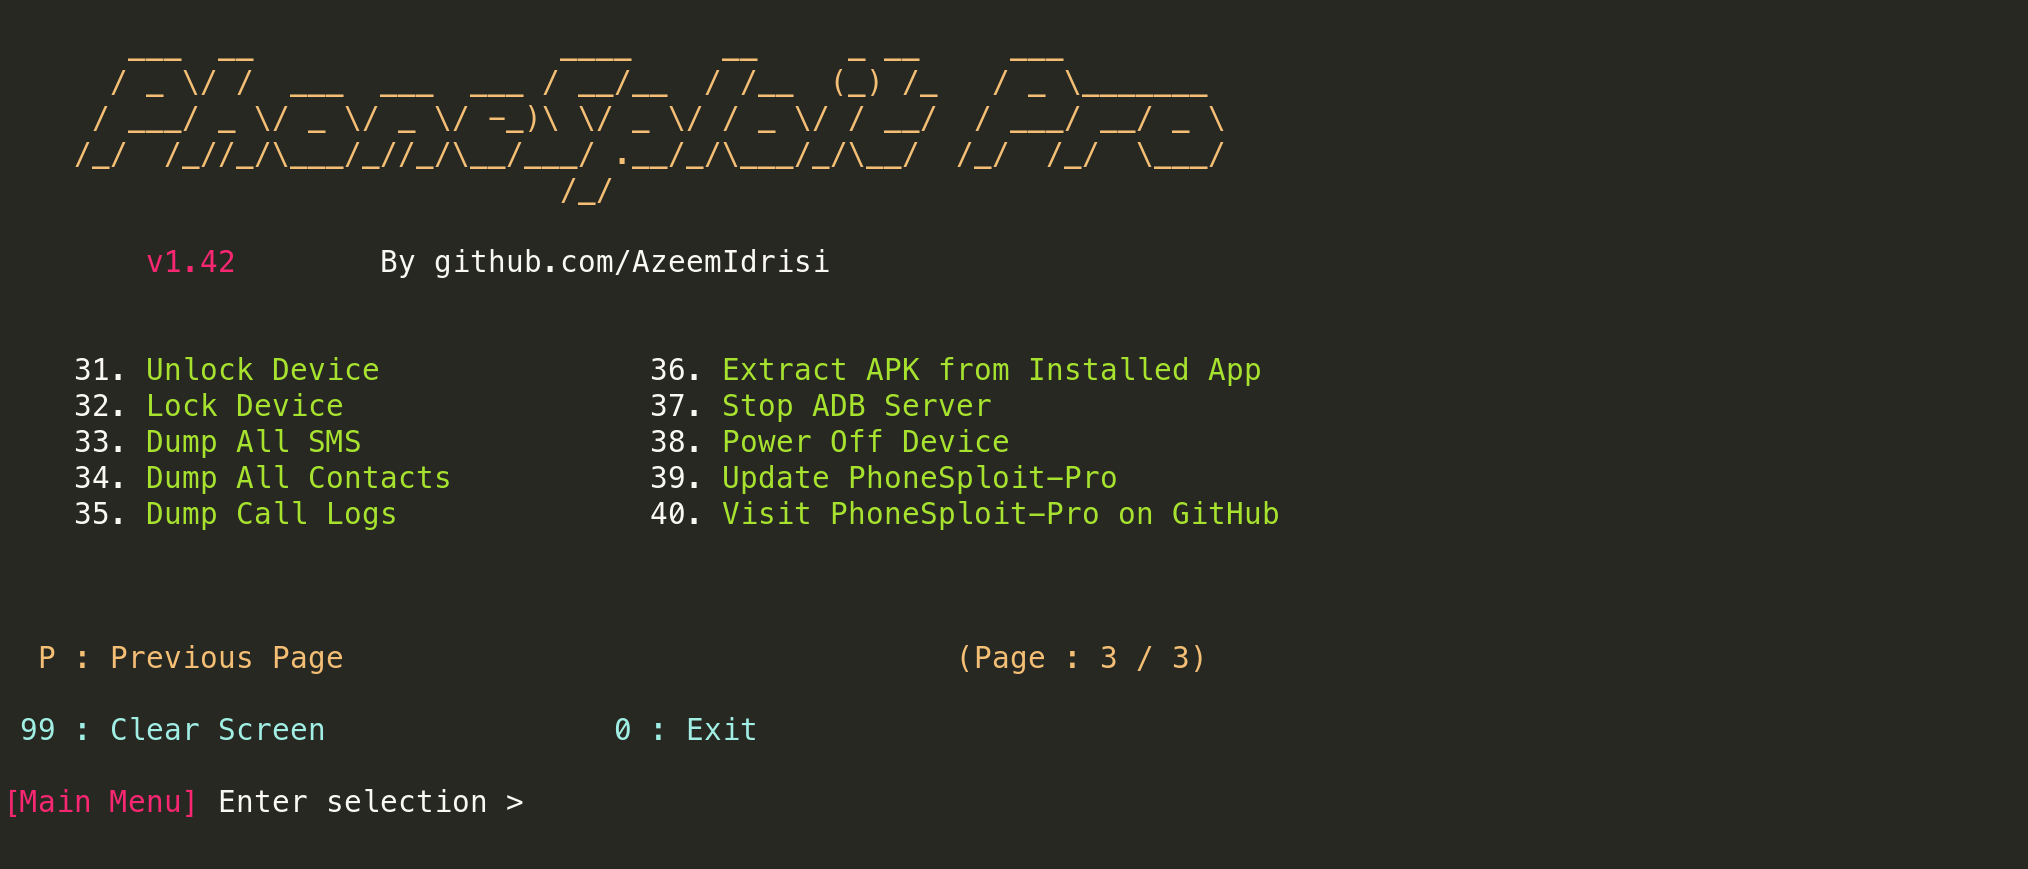
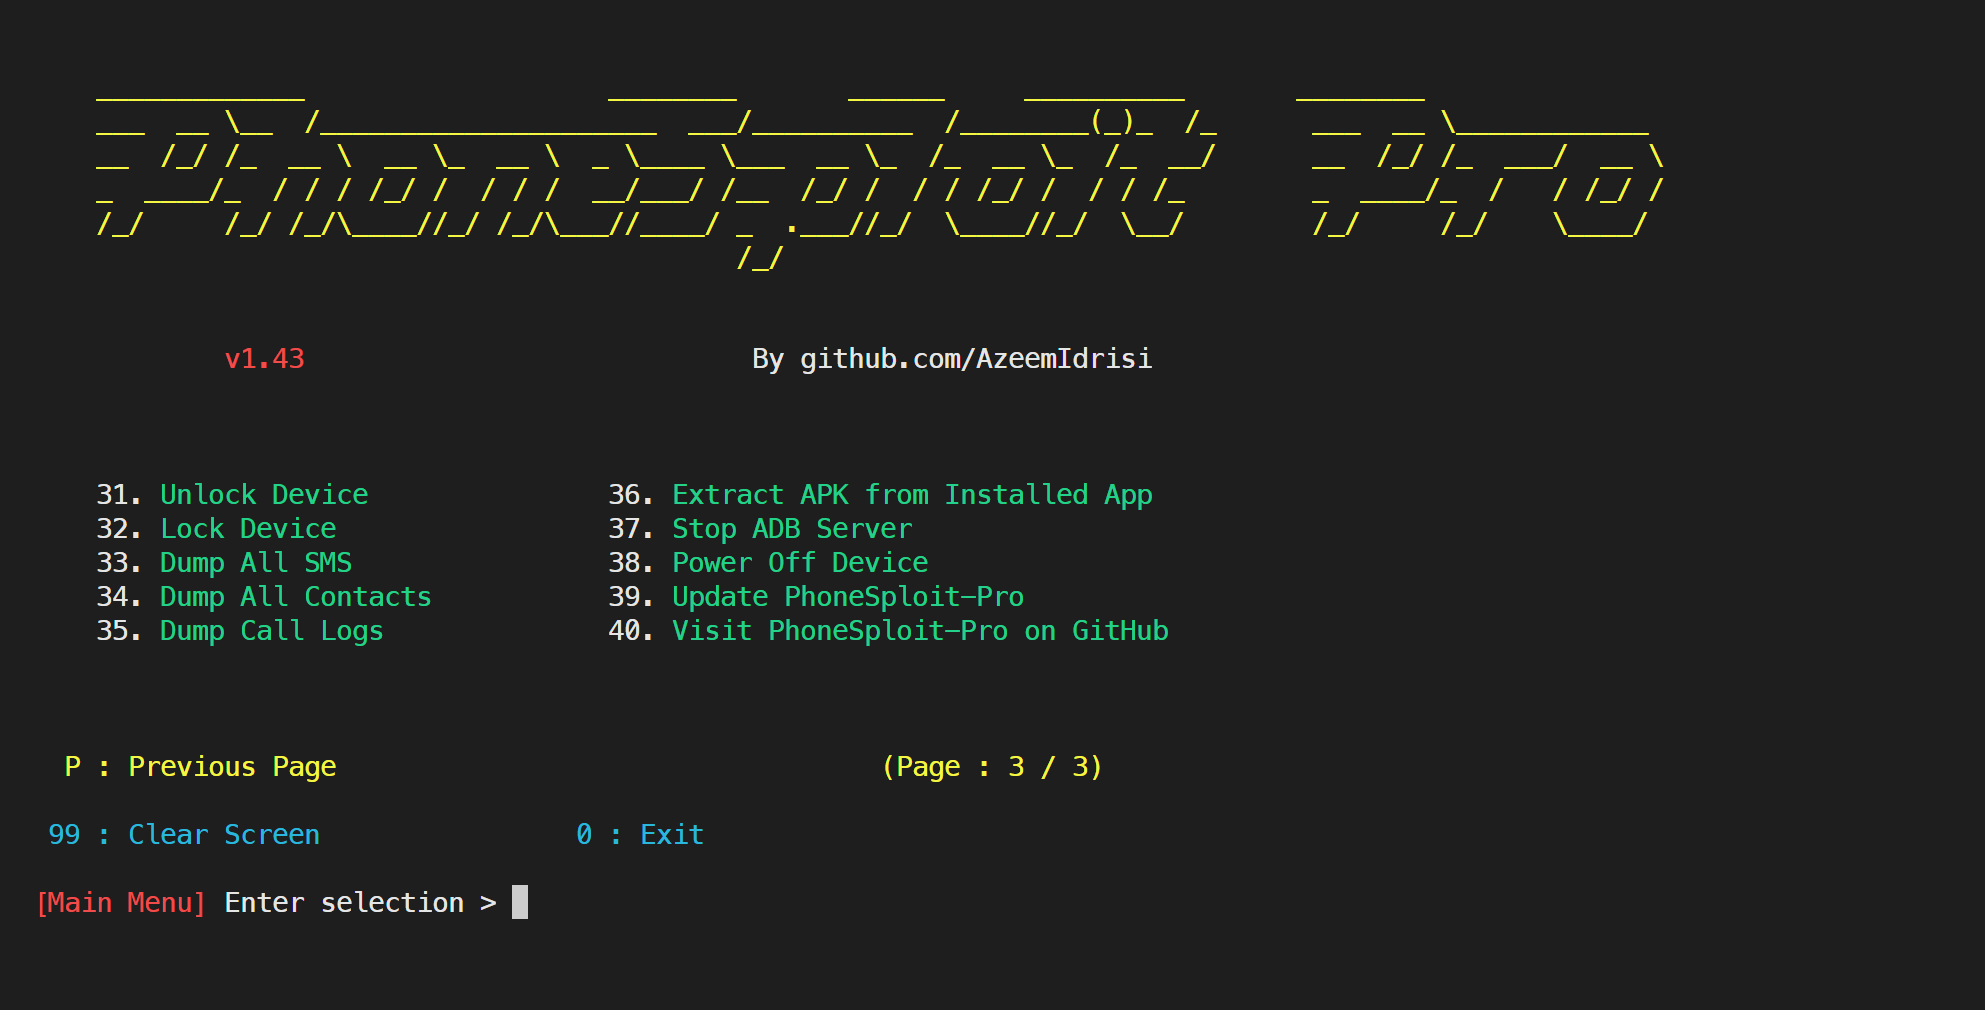
v1.43 Update

diff --git a/modules/banner.py b/modules/banner.py
@@ -72,7 +72,7 @@ banner2 = f'''
         ░█─── ▀──▀ ▀▀▀▀ ▀──▀ ▀▀▀ ░█▄▄▄█ █▀▀▀ ▀▀▀ ▀▀▀▀ ▀▀▀ ──▀── 　 ░█─── ▀─▀▀ ▀▀▀▀
 
 
-            {color.RED}v1.42{color.WHITE}            {color.WHITE}By github.com/AzeemIdrisi
+            {color.RED}v1.43{color.WHITE}            {color.WHITE}By github.com/AzeemIdrisi
 '''
 
 banner3 = f'''
@@ -81,7 +81,7 @@ banner3 = f'''
         █▀▀ █▀█ █▄█ █░▀█ ██▄ ▄█ █▀▀ █▄▄ █▄█ █ ░█░   █▀▀ █▀▄ █▄█ 
 
 
-            {color.RED}v1.42{color.WHITE}             {color.WHITE}By github.com/AzeemIdrisi
+            {color.RED}v1.43{color.WHITE}             {color.WHITE}By github.com/AzeemIdrisi
 '''
 
 banner4 = f'''
@@ -93,7 +93,7 @@ banner4 = f'''
                   \/            \/     \/        \/|__|                                                      
 
 
-        {color.RED}v1.42{color.WHITE}                             {color.WHITE}By github.com/AzeemIdrisi
+        {color.RED}v1.43{color.WHITE}                             {color.WHITE}By github.com/AzeemIdrisi
 '''
 banner5 = f'''
        ___  __                 ____     __     _ __     ___         
@@ -102,7 +102,7 @@ banner5 = f'''
     /_/  /_//_/\___/_//_/\__/___/ .__/_/\___/_/\__/  /_/  /_/  \___/
                                /_/                                                                                                      
 
-        {color.RED}v1.42{color.WHITE}        {color.WHITE}By github.com/AzeemIdrisi
+        {color.RED}v1.43{color.WHITE}        {color.WHITE}By github.com/AzeemIdrisi
 '''
 
 banner6 = f'''
@@ -113,7 +113,7 @@ banner6 = f'''
     /_/   /_/ /_/\____/_/ /_/\___/____/ .___/_/\____/_/\__/    /_/   /_/   \____/
                                      /_/                                                                                                       
     
-           {color.RED}v1.42{color.WHITE}               {color.WHITE}By github.com/AzeemIdrisi
+           {color.RED}v1.43{color.WHITE}               {color.WHITE}By github.com/AzeemIdrisi
 
 '''
 
@@ -128,7 +128,7 @@ banner10 = f'''
                                                          \ \_\                                                       
                                                           \/_/                                              
 
-            {color.RED}v1.42{color.WHITE}                                {color.WHITE}By github.com/AzeemIdrisi
+            {color.RED}v1.43{color.WHITE}                                {color.WHITE}By github.com/AzeemIdrisi
 
 '''
 
@@ -141,7 +141,7 @@ banner11 = f'''
                                             /_/                                                      
 
 
-            {color.RED}v1.42{color.WHITE}                            {color.WHITE}By github.com/AzeemIdrisi
+            {color.RED}v1.43{color.WHITE}                            {color.WHITE}By github.com/AzeemIdrisi
 
 '''
 
@@ -152,7 +152,7 @@ banner12 = f'''
         ▒█░░░ ▀░░▀ ▀▀▀▀ ▀░░▀ ▀▀▀ ▒█▄▄▄█ █▀▀▀ ▀▀▀ ▀▀▀▀ ▀▀▀ ░░▀░░ 　 ▒█░░░ ▀░▀▀ ▀▀▀▀   
 
 
-            {color.RED}v1.42{color.WHITE}                            {color.WHITE}By github.com/AzeemIdrisi
+            {color.RED}v1.43{color.WHITE}                            {color.WHITE}By github.com/AzeemIdrisi
 
 '''
 banner_list = [banner2, banner3, banner4, banner5,
